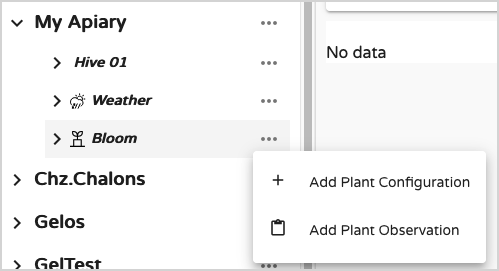
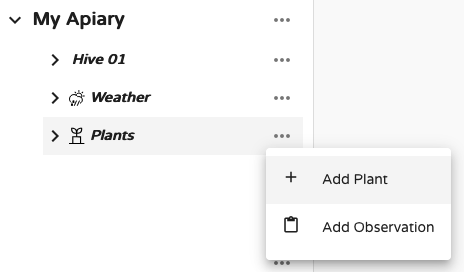
plants edits, add search

diff --git a/docs/en/50_mybroodminder_v5g_plants.md b/docs/en/50_mybroodminder_v5g_plants.md
@@ -5,11 +5,7 @@
     You’ll learn how to link plants to apiaries, browse species data, and use **calendar and dashboard views** to track nectar sources over time.  
     Most importantly, you’ll discover **Phenocast**, BroodMinder’s powerful forecasting tool that uses your local observations and weather history to predict phenological stages — helping you plan interventions and optimize pollination like never before.
 
-<div align="center">
-<a href="https://youtu.be/u0g4em-KG7o" target="_blank">
-  <img src="../assets/50_mybroodminder_v5.assets/plants/ytb_video.png#largeImg" alt="Plants video">
-</a>
-</div>
+
 
 
 The **Plants** module is one of the key new features released in 2025. Since 2022, we’ve been developing a powerful model to **track and forecast phenological stages** of plants. The engine behind this feature is called **Phenocast**.
@@ -19,10 +15,15 @@ Plants are now fully integrated into MyBroodMinder, and support for Bees App wil
 
 
 
-Each **apiary** can now be linked to an **unlimited number of plants**. Choose those that matter most for your bees, especially for nectar and pollen. We’ve built a database of over **500 species**, searchable by keyword.
+Each **apiary** can now be linked to an **unlimited number of plants**. Choose those that matter most for your bees, especially for nectar and pollen. We’ve built a database of over **500 species**, searchable by keyword. 
 
 
 ![plants](../assets/50_mybroodminder_v5.assets/plants/newplant.png)
+
+![plants](../assets/50_mybroodminder_v5.assets/plants/search_plant.png)
+
+!!! tip 
+    you can search your plants through their Scientific (latin), english, french or spanish name
 
 
 Once you've selected your plants, you can explore the data in different ways. let's check them:
